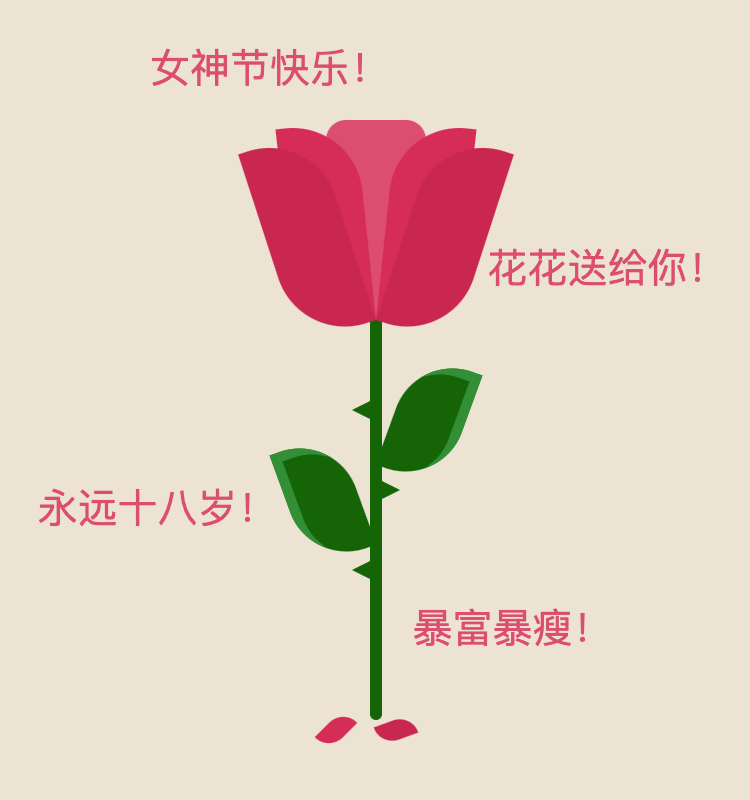
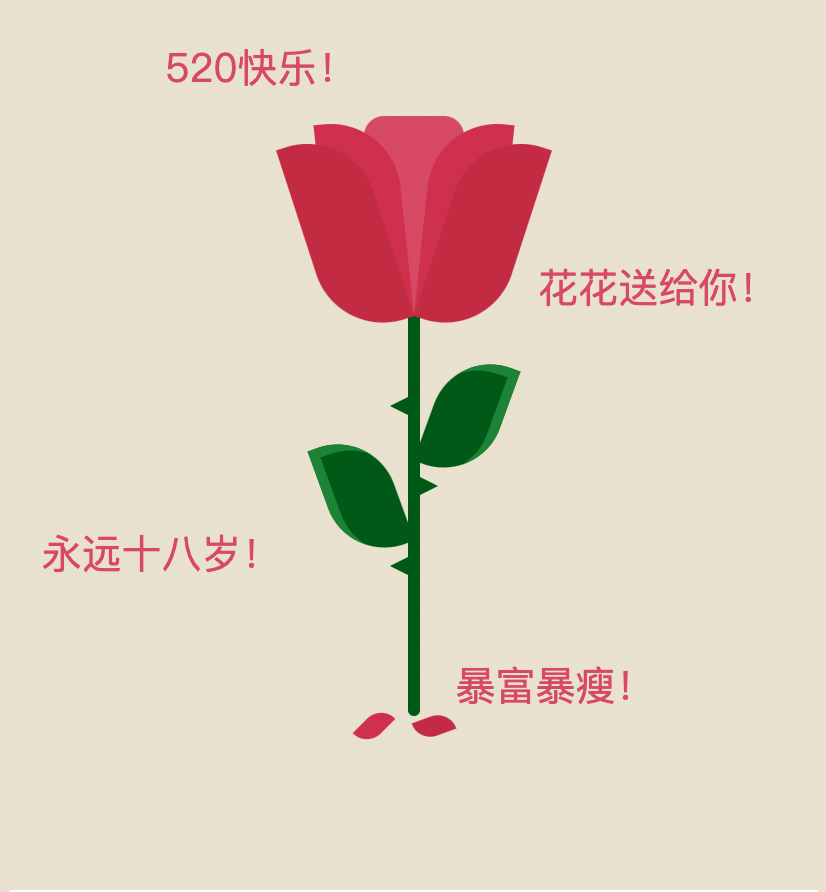
rebuild

Changed region(s): [[0.184, 0.0312, 0.9507, 0.75], [0.4293, 0.75, 0.7973, 0.9375], [0.0307, 0.5938, 0.3373, 0.6562]]

diff --git a/dist/main.7756e51b.js b/dist/main.7756e51b.js
@@ -1,0 +1,4 @@
+parcelRequire=function(e,r,t,n){var i,o="function"==typeof parcelRequire&&parcelRequire,u="function"==typeof require&&require;function f(t,n){if(!r[t]){if(!e[t]){var i="function"==typeof parcelRequire&&parcelRequire;if(!n&&i)return i(t,!0);if(o)return o(t,!0);if(u&&"string"==typeof t)return u(t);var c=new Error("Cannot find module '"+t+"'");throw c.code="MODULE_NOT_FOUND",c}p.resolve=function(r){return e[t][1][r]||r},p.cache={};var l=r[t]=new f.Module(t);e[t][0].call(l.exports,p,l,l.exports,this)}return r[t].exports;function p(e){return f(p.resolve(e))}}f.isParcelRequire=!0,f.Module=function(e){this.id=e,this.bundle=f,this.exports={}},f.modules=e,f.cache=r,f.parent=o,f.register=function(r,t){e[r]=[function(e,r){r.exports=t},{}]};for(var c=0;c<t.length;c++)try{f(t[c])}catch(e){i||(i=e)}if(t.length){var l=f(t[t.length-1]);"object"==typeof exports&&"undefined"!=typeof module?module.exports=l:"function"==typeof define&&define.amd?define(function(){return l}):n&&(this[n]=l)}if(parcelRequire=f,i)throw i;return f}({"epB2":[function(require,module,exports) {
+var n=document.querySelector("#html-text"),t=document.querySelector("#styleText"),r="先画花的茎\n.stem {\n    position: absolute;\n    height: 0;\n    width: 6px;\n    background: var(--dark-green);\n    bottom: 10%;\n    left: 50%;\n    margin-left: -3px;\n    border-radius: 0 0 3px 3px;\n    transition: height 1s;\n}\n.stem {\n  height: 200px;\n}\n.thorns>div{\n    width: 0;\n    border-top: 5px solid transparent;\n    border-bottom: 5px solid transparent;\n    position: absolute;\n}\n.thorns>div:first-child {\n    border-right: 10px solid var(--dark-green);    \n    position: absolute;\n    left: 44%;\n    top: 50%;\n}\n.thorns>div:nth-child(2) {\n    border-left: 10px solid var(--dark-green);\n    right: 44%;\n    top: 60%;\n}\n.thorns>div:nth-child(3) {\n    border-right: 10px solid var(--dark-green);\n    left: 44%;\n    top: 70%;\n}\n再画花的叶\n.leaves>div{\n    position: absolute;\n    height: 60px;\n    width: 35px;\n}\n.leaves>div:first-child {\n    border-radius: 0 30px 0 30px;\n    transform: rotate(-20deg);\n    top: 55%;\n    left: 28%;\n    transition: background 1s, box-shadow 1s 1s;\n    background: var(--dark-green);\n    box-shadow: inset 5px 5px var(--light-green);\n}\n.leaves>div:nth-child(2) {\n    border-radius: 30px 0 30px 0;\n    transform: rotate(20deg);\n    top: 45%;\n    right: 28%;\n    transition: background 1s, box-shadow 1s 1s;\n    background: var(--dark-green);\n    box-shadow: inset -5px 5px var(--light-green);\n}\n最后画花瓣\n.petals>div:first-child {\n    position: absolute;\n    height: 100px;\n    width: 50px;\n    border-radius: 10px 10px 20px 20px;\n    transition: background 1s;\n    background: var(--light-pink);\n    top: 15%;\n    left: 50%;\n    margin-left: -25px;\n}\n.petals>div:not(:first-child) {\n    position: absolute;\n    height: 100px;\n    width: 40px;\n}\n.petals>div:nth-child(2) {\n    transform-origin: bottom right;\n    border-radius: 0 35px 0 35px;\n    transition: background 1s, transform 1s 1s;\n    background: var(--medium-pink);\n    transform: rotate(-6deg);\n    top: 15%;\n    left: 30%;\n}\n.petals>div:nth-child(3) {\n    transform-origin: bottom left;\n    border-radius: 35px 0 35px 0;\n    transition: background 1s, transform 1s 1s;\n    background: var(--medium-pink);\n    transform: rotate(6deg);\n    top: 15%;\n    right: 30%;\n}\n.petals>div:nth-child(4) {\n    transform-origin: bottom right;\n    border-radius: 0 35px 0 35px;\n    transition: background 1s, transform 1s 1s;\n    background: var(--dark-pink);\n    transform: rotate(-18deg);\n    top: 15%;\n    left: 30%;\n}\n.petals>div:nth-child(5) {\n    transform-origin: bottom left;\n    border-radius: 35px 0 35px 0;\n    transition: background 1s, transform 1s 1s;\n    background: var(--dark-pink);\n    transform: rotate(18deg);\n    top: 15%;\n    right: 30%;\n}\n.dead-petals>div:first-child {\n    background: var(--medium-pink);\n    left: 35%;\n    transition: transform 8s, top 8s;\n    transform: rotate(-45deg);\n    top: 90%;\n}\n.dead-petals>div:nth-child(2) {\n    background: var(--dark-pink);\n    left: 50%;\n    transition: transform 8s 2s, top 8s 2s;\n    transform: rotate(-20deg);\n    top: 90%;\n}\n.wishes>div:first-child {\n    transform: translate(-80%);\n}\n.wishes>div:nth-child(2) {\n    transform: translate(-35%);\n}\n.wishes>div:nth-child(3) {\n    transform: translate(-95%);\n}\n.wishes>div:nth-child(4) {\n    transform: translate(-45%);\n}",o="",i="",s="",a=!1,e=0,d=function d(){n.innerHTML=o,t.innerHTML=i,setTimeout(function(){"\n"===r[e]?o+="<br>":" "===r[e]?o+="&nbsp;":o+=r[e],"#"===r[e]||"."===r[e]?a=!0:"}"===r[e]&&(a=!1,i+=s+="}\n",console.log(s)),!0===a&&(s+=r[e]),window.scrollTo(0,99999),n.scrollTo(0,99999),e<r.length&&(e+=1,d())},1)};d();
+},{}]},{},["epB2"], null)
+//# sourceMappingURL=main.7756e51b.js.map

diff --git a/dist/index.html b/dist/index.html
@@ -1,53 +1,2 @@
-<!DOCTYPE html>
-<html lang="zh-CN">
-
-<head>
-    <meta charset="UTF-8">
-    <meta name="viewport" content="width=device-width, initial-scale=1.0, minimum-scale=1.0, maximum-scale=1.0, user-scalable=no">
-    <title>女神你好</title>
-    <link rel="shortcut icon" href="/effect.acb6db48.png" type="image/x-icon">
-    <link rel="stylesheet" type="text/css" href="/style.e308ff8e.css">
-<script src="/style.e308ff8e.js"></script></head>
-
-<body>
-    <style id="styleText"></style>
-    <div id="wrapper">
-        <div class="container">
-            <div class="rose">
-                <div class="stem"></div>
-                <div class="thorns">
-                    <div></div>
-                    <div></div>
-                    <div></div>
-                </div>
-                <div class="leaves">
-                    <div></div>
-                    <div></div>
-                </div>
-                <div class="dead-petals">
-                    <div></div>
-                    <div></div>
-                </div>
-                <div class="petals">
-                    <div></div>
-                    <div></div>
-                    <div></div>
-                    <div></div>
-                    <div></div>
-                </div>
-                <div class="dead-petal"></div>
-                <div class="shine"></div>
-            </div>
-            <div class="wishes">
-                <div>女神节快乐！</div>
-                <div>花花送给你！</div>
-                <div>永远十八岁！</div>
-                <div>暴富暴瘦！</div>
-            </div>
-        </div>
-        <div id="html-text"></div>
-    </div>
-    <script src="/main.1f19ae8e.js"></script>
-</body>
-
-</html>
+<!DOCTYPE html><html lang="zh-CN"><head><meta charset="UTF-8"><meta name="viewport" content="width=device-width, initial-scale=1.0, minimum-scale=1.0, maximum-scale=1.0, user-scalable=no"><title>520快乐</title><link rel="shortcut icon" href="effect.218187e1.png" type="image/x-icon"><link rel="stylesheet" type="text/css" href="style.2834e755.css"></head><body> <style id="styleText"></style> <div id="wrapper"> <div class="container"> <div class="rose"> <div class="stem"></div> <div class="thorns"> <div></div> <div></div> <div></div> </div> <div class="leaves"> <div></div> <div></div> </div> <div class="dead-petals"> <div></div> <div></div> </div> <div class="petals"> <div></div> <div></div> <div></div> <div></div> <div></div> </div> <div class="dead-petal"></div> <div class="shine"></div> </div> <div class="wishes"> <div>520快乐！</div> <div>花花送给你！</div> <div>永远十八岁！</div> <div>暴富暴瘦！</div> </div> </div> <div id="html-text"></div> </div> <script src="main.7756e51b.js"></script>
+</body></html>

diff --git a/dist/style.e308ff8e.js b/dist/style.e308ff8e.js
@@ -117,7 +117,7 @@ parcelRequire = (function (modules, cache, entry, globalName) {
   }
 
   return newRequire;
-})({"../../../.config/yarn/global/node_modules/parcel-bundler/src/builtins/bundle-url.js":[function(require,module,exports) {
+})({"../../../../.config/yarn/global/node_modules/parcel-bundler/src/builtins/bundle-url.js":[function(require,module,exports) {
 var bundleURL = null;
 
 function getBundleURLCached() {
@@ -149,7 +149,7 @@ function getBaseURL(url) {
 
 exports.getBundleURL = getBundleURLCached;
 exports.getBaseURL = getBaseURL;
-},{}],"../../../.config/yarn/global/node_modules/parcel-bundler/src/builtins/css-loader.js":[function(require,module,exports) {
+},{}],"../../../../.config/yarn/global/node_modules/parcel-bundler/src/builtins/css-loader.js":[function(require,module,exports) {
 var bundle = require('./bundle-url');
 
 function updateLink(link) {
@@ -184,12 +184,12 @@ function reloadCSS() {
 }
 
 module.exports = reloadCSS;
-},{"./bundle-url":"../../../.config/yarn/global/node_modules/parcel-bundler/src/builtins/bundle-url.js"}],"style.css":[function(require,module,exports) {
+},{"./bundle-url":"../../../../.config/yarn/global/node_modules/parcel-bundler/src/builtins/bundle-url.js"}],"style.css":[function(require,module,exports) {
 var reloadCSS = require('_css_loader');
 
 module.hot.dispose(reloadCSS);
 module.hot.accept(reloadCSS);
-},{"_css_loader":"../../../.config/yarn/global/node_modules/parcel-bundler/src/builtins/css-loader.js"}],"../../../.config/yarn/global/node_modules/parcel-bundler/src/builtins/hmr-runtime.js":[function(require,module,exports) {
+},{"_css_loader":"../../../../.config/yarn/global/node_modules/parcel-bundler/src/builtins/css-loader.js"}],"../../../../.config/yarn/global/node_modules/parcel-bundler/src/builtins/hmr-runtime.js":[function(require,module,exports) {
 var global = arguments[3];
 var OVERLAY_ID = '__parcel__error__overlay__';
 var OldModule = module.bundle.Module;
@@ -217,7 +217,7 @@ var parent = module.bundle.parent;
 if ((!parent || !parent.isParcelRequire) && typeof WebSocket !== 'undefined') {
   var hostname = "" || location.hostname;
   var protocol = location.protocol === 'https:' ? 'wss' : 'ws';
-  var ws = new WebSocket(protocol + '://' + hostname + ':' + "58965" + '/');
+  var ws = new WebSocket(protocol + '://' + hostname + ':' + "63320" + '/');
 
   ws.onmessage = function (event) {
     checkedAssets = {};
@@ -393,5 +393,5 @@ function hmrAcceptRun(bundle, id) {
     return true;
   }
 }
-},{}]},{},["../../../.config/yarn/global/node_modules/parcel-bundler/src/builtins/hmr-runtime.js"], null)
+},{}]},{},["../../../../.config/yarn/global/node_modules/parcel-bundler/src/builtins/hmr-runtime.js"], null)
 //# sourceMappingURL=/style.e308ff8e.js.map

diff --git a/dist/style.2834e755.css b/dist/style.2834e755.css
@@ -1,0 +1,2 @@
+:root{--dark-green:#066406;--light-green:#338f37;--light-pink:#dc4c70;--medium-pink:#d52d58;--dark-pink:#ca2850;--light-brown:#ede3d2;--dark-brown:#73592e}*{margin:0;padding:0}*,:after,:before{box-sizing:border-box}#wrapper{display:flex;justify-content:space-between;align-items:center}.container{width:50%;height:100vh;background:var(--light-brown);overflow:hidden}.container,.rose{margin:auto;position:relative}.rose{height:400px;width:200px}.wishes{width:100%}.wishes>div{position:absolute;left:100%;white-space:nowrap;color:var(--light-pink);font-size:20px;width:100%}.wishes>div:first-child{top:5%;transition:transform 4s linear}.wishes>div:nth-child(2){top:30%;transition:transform 4s linear}.wishes>div:nth-child(3){top:60%;transition:transform 4s linear}.wishes>div:nth-child(4){top:75%;transition:transform 4s linear}#html-text{width:50%;max-height:100vh;overflow-y:auto;color:var(--dark-brown);padding:0 10px;border:5px solid var(--light-brown)}.dead-petals>div{position:absolute;height:10px;width:20px;top:25%;border-radius:0 20px;transition-timing-function:ease-out}@media (max-width:500px){#wrapper{flex-direction:column;justify-content:space-between}.container{flex-grow:1;width:100%;height:60vh}#html-text{height:40vh;width:100%}}
+/*# sourceMappingURL=style.2834e755.css.map */

diff --git a/dist/main.1f19ae8e.js b/dist/main.1f19ae8e.js
@@ -166,7 +166,7 @@ var step = function step() {
 };
 
 step();
-},{}],"../../../.config/yarn/global/node_modules/parcel-bundler/src/builtins/hmr-runtime.js":[function(require,module,exports) {
+},{}],"../../../../.config/yarn/global/node_modules/parcel-bundler/src/builtins/hmr-runtime.js":[function(require,module,exports) {
 var global = arguments[3];
 var OVERLAY_ID = '__parcel__error__overlay__';
 var OldModule = module.bundle.Module;
@@ -194,7 +194,7 @@ var parent = module.bundle.parent;
 if ((!parent || !parent.isParcelRequire) && typeof WebSocket !== 'undefined') {
   var hostname = "" || location.hostname;
   var protocol = location.protocol === 'https:' ? 'wss' : 'ws';
-  var ws = new WebSocket(protocol + '://' + hostname + ':' + "58965" + '/');
+  var ws = new WebSocket(protocol + '://' + hostname + ':' + "63320" + '/');
 
   ws.onmessage = function (event) {
     checkedAssets = {};
@@ -370,5 +370,5 @@ function hmrAcceptRun(bundle, id) {
     return true;
   }
 }
-},{}]},{},["../../../.config/yarn/global/node_modules/parcel-bundler/src/builtins/hmr-runtime.js","main.js"], null)
+},{}]},{},["../../../../.config/yarn/global/node_modules/parcel-bundler/src/builtins/hmr-runtime.js","main.js"], null)
 //# sourceMappingURL=/main.1f19ae8e.js.map

diff --git a/src/index.html b/src/index.html
@@ -5,7 +5,7 @@
     <meta charset="UTF-8">
     <meta name="viewport"
         content="width=device-width, initial-scale=1.0, minimum-scale=1.0, maximum-scale=1.0, user-scalable=no">
-    <title>女神你好</title>
+    <title>520快乐</title>
     <link rel="shortcut icon" href="effect.png" type="image/x-icon">
     <link rel="stylesheet" type="text/css" href="style.css">
 </head>
@@ -40,7 +40,7 @@
                 <div class="shine"></div>
             </div>
             <div class="wishes">
-                <div>女神节快乐！</div>
+                <div>520快乐！</div>
                 <div>花花送给你！</div>
                 <div>永远十八岁！</div>
                 <div>暴富暴瘦！</div>
